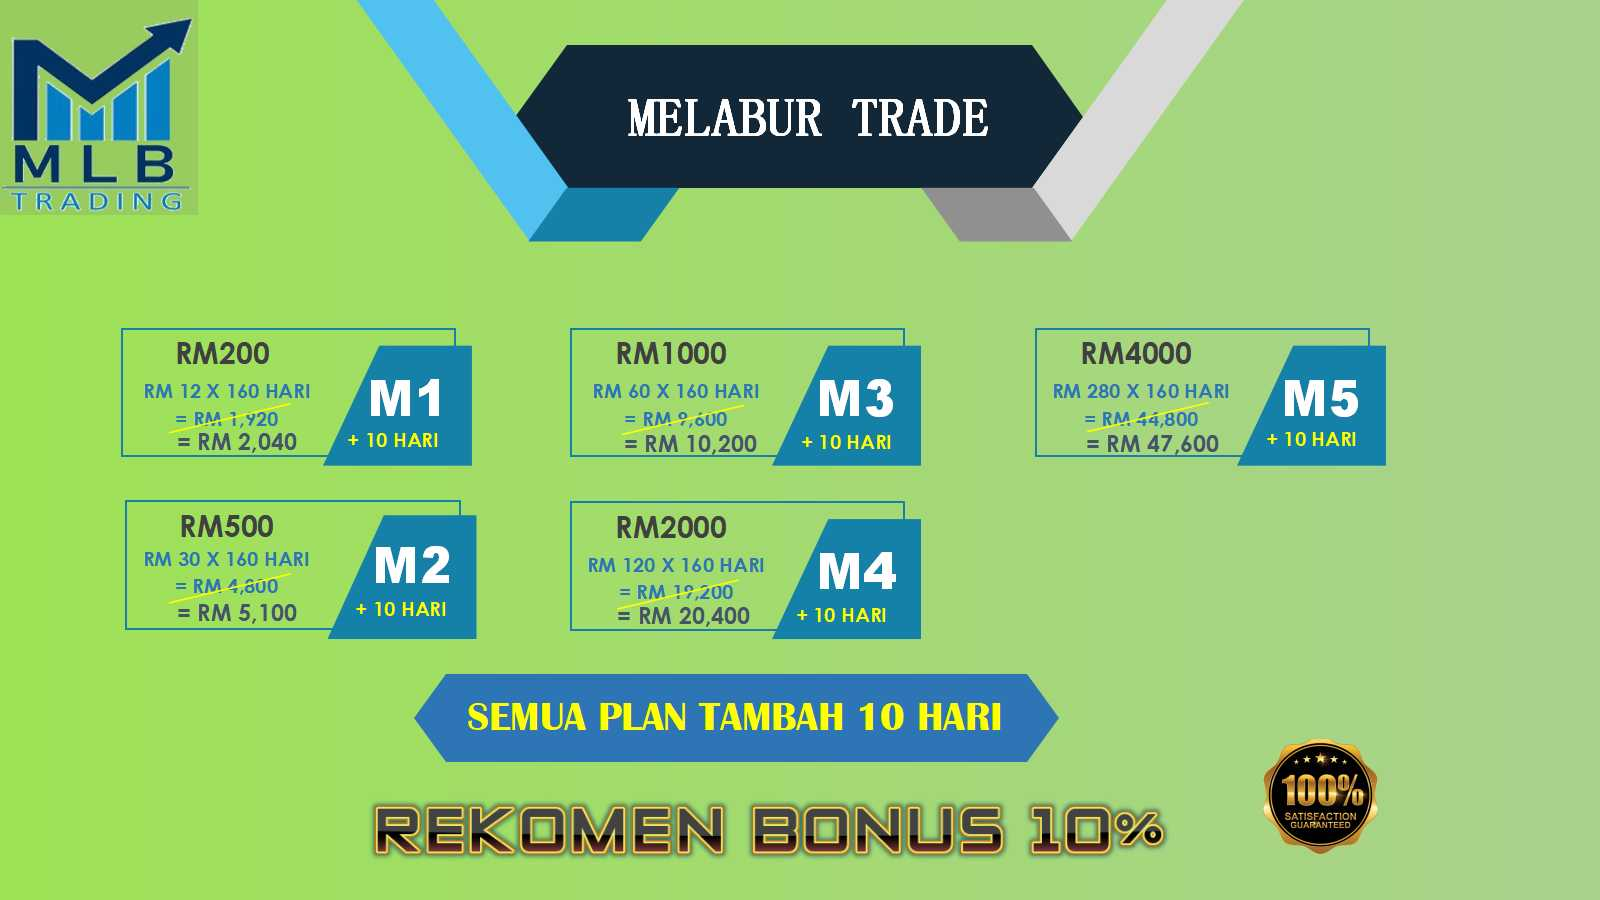
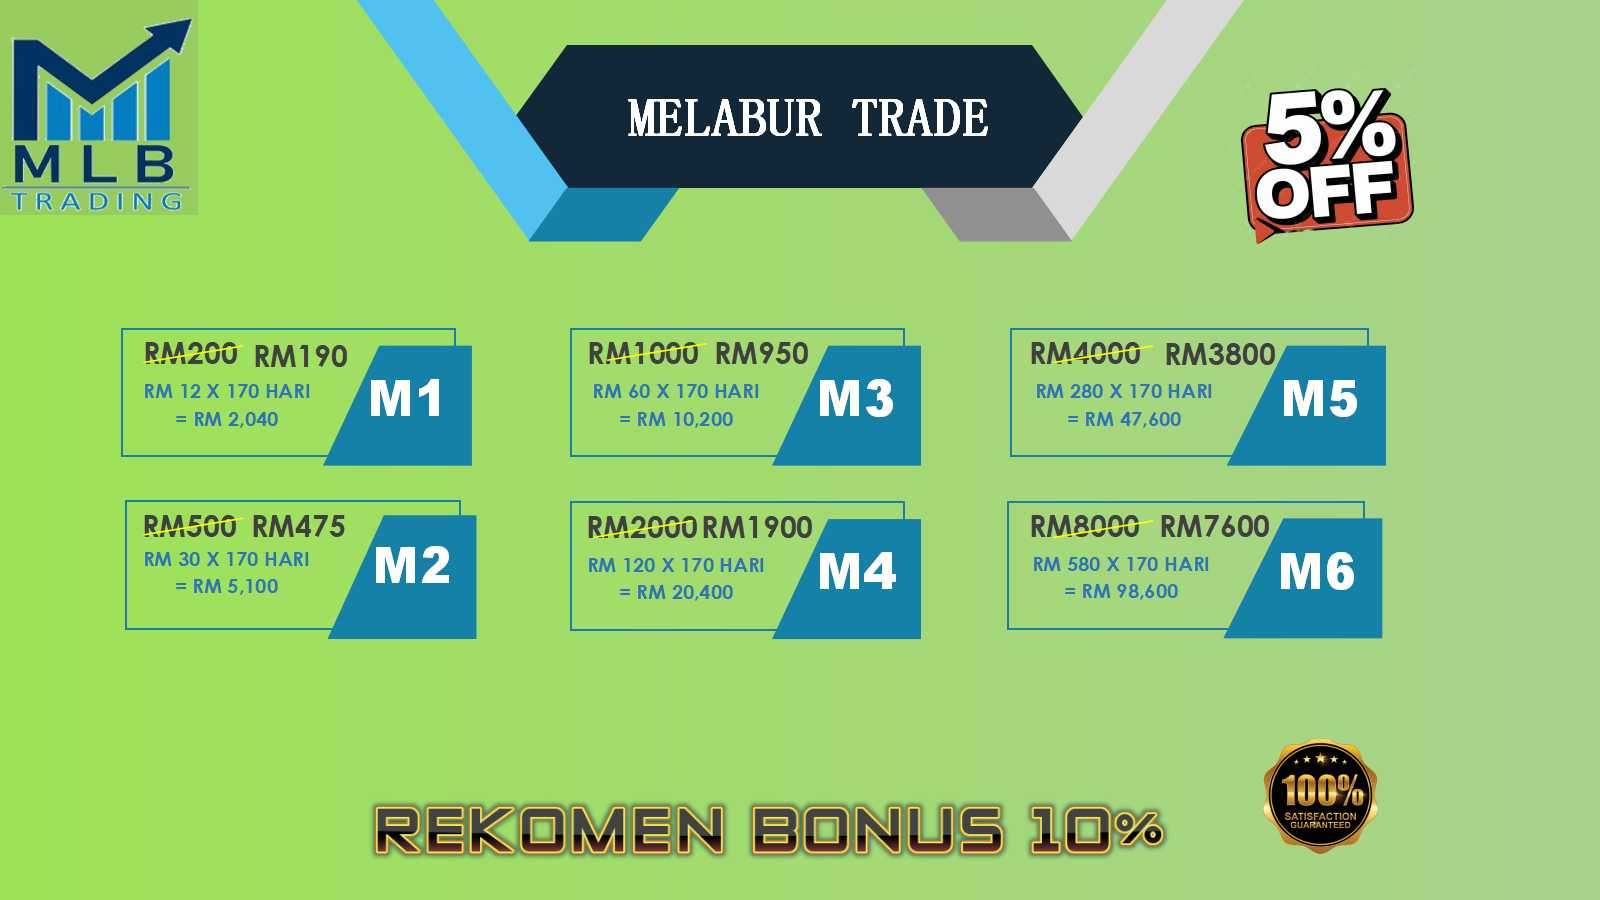
update: add plan 6

diff --git a/plan.html b/plan.html
@@ -97,27 +97,32 @@
         <div class="flex-container">
             <div class="box center-text">
                 ♻ PLAN RM 200 <br>
-                RM 12 x 170 hari = RM 1,920
+                RM 12 x 170 hari = RM 2,040
             </div>
 
             <div class="box center-text">
                 ♻ PLAN RM 500 <br>
-                RM 30 x 170 hari = RM 4,800
+                RM 30 x 170 hari = RM 5,100
             </div>
 
             <div class="box center-text">
                 ♻ PLAN RM 1000 <br>
-                RM 60 x 170 hari = RM 9,600
+                RM 60 x 170 hari = RM 10,200
             </div>
             
             <div class="box center-text">
                 ♻ PLAN RM 2000 <br>
-                RM 120 x 170 hari = RM 19,200
+                RM 120 x 170 hari = RM 20,400
             </div>
             
             <div class="box center-text">
                 ♻ PLAN RM 4000 <br>
-                RM 280 x 170 hari = RM 44,800
+                RM 280 x 170 hari = RM 47,600
+            </div>
+            
+            <div class="box center-text">
+                ♻ PLAN RM 8000 <br>
+                RM 580 x 170 hari = RM 98,600
             </div>
             
         </div>
